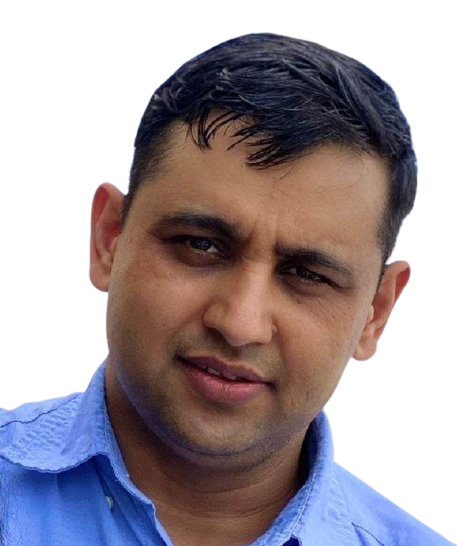
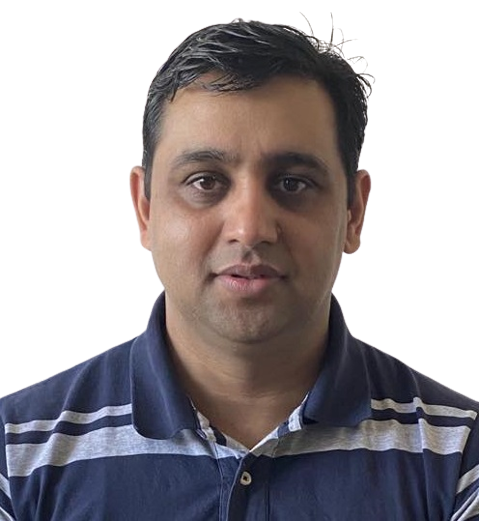
myPic.jpg replaced, link to social media added

diff --git a/index.html b/index.html
@@ -276,10 +276,10 @@
           </p>
           <h5>Arjun Dhakal</h5>
           <div class="d-flex">
-            <i class="fa-solid fa-envelope contactIcon"></i><p>arjun.nbsm@yahoo.com</p>
+            <i class="fa-solid fa-envelope contactIcon"></i><p>arjun.dhakal2038@gmail.com</p>
           </div>          
-          <a href="#" ><i class="fa-brands fa-square-facebook contactIcon"></i></i></a>
-          <a href="#"><i class="fa-brands fa-linkedin contactIcon"></i></a>
+          <a href="https://www.facebook.com/arjun.dhakal.33" target="_blank" ><i class="fa-brands fa-square-facebook contactIcon"></i></i></a>
+          <a href="https://www.linkedin.com/in/arjun-dhakal-a18014164/" target="_blank"><i class="fa-brands fa-linkedin contactIcon"></i></a>
         </div>
          
           <div class="col-md-6 contactForm">
